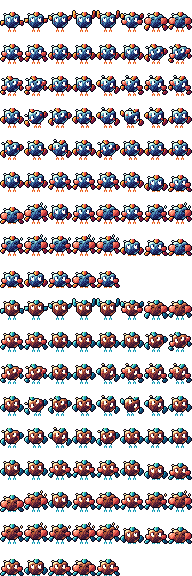
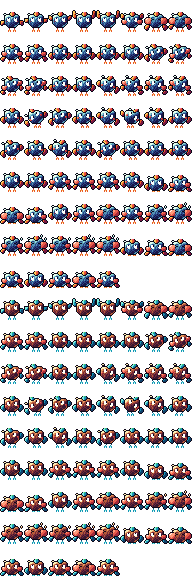
Keep the balloon on screen through the last pump stage
The pump clip ended on the burst pose, whose gum_show is 0, so the gum bubble was hidden for the last quarter of every pump (rivals and the landed player). The clip now ends on stand_puff. test-leak scans pump frames and fails if a bubble whose body is drawn has SCB3 height 0.

Changed region(s): [[0.125, 0.8438, 0.25, 0.9062], [0.125, 0.3438, 0.25, 0.4062]]

diff --git a/tools/import_gum_mouth_sheet.py b/tools/import_gum_mouth_sheet.py
@@ -38,7 +38,7 @@ CLIPS = [  # (name, loop, [(frame, ticks)])
     ("fly", 1, [(POSE[SWP[i]][BL[i % 6]], 5) for i in range(12)]),
     ("settle", 0, settle()),
     ("idle", 1, [(n, 6) for n in BL]),
-    ("pump", 0, [("stand_in", 6), ("stand_puff", 4), ("stand_blast", 5), ("burst", 5)]),
+    ("pump", 0, [("stand_in", 6), ("stand_puff", 4), ("stand_blast", 5), ("stand_puff", 5)]),
     ("inflate", 0, [("in", 4), ("puff", 4), ("blast", 4), ("puff", 4)]),
     ("fall", 1, [("strain", 6), ("burst", 6)]),
     ("pop2", 0, [("strain", 4), ("burst", 4)]),
